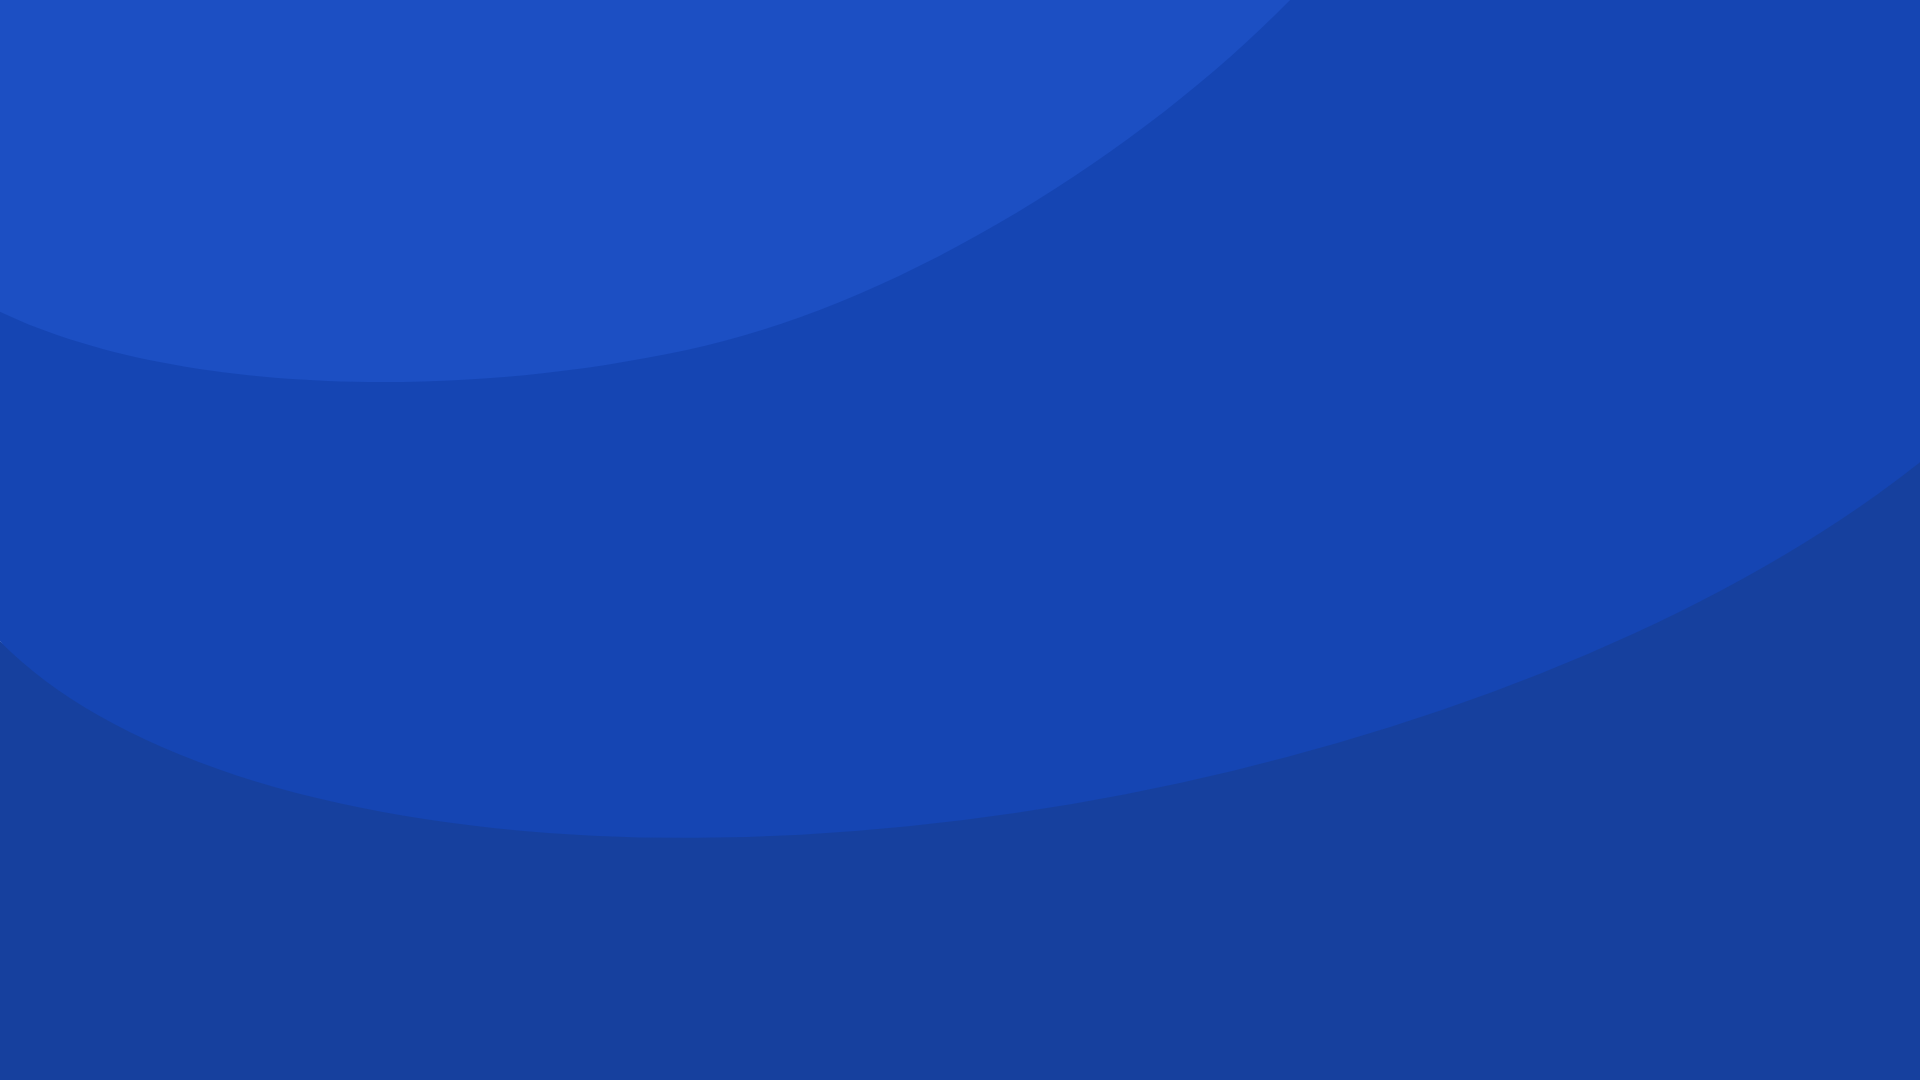
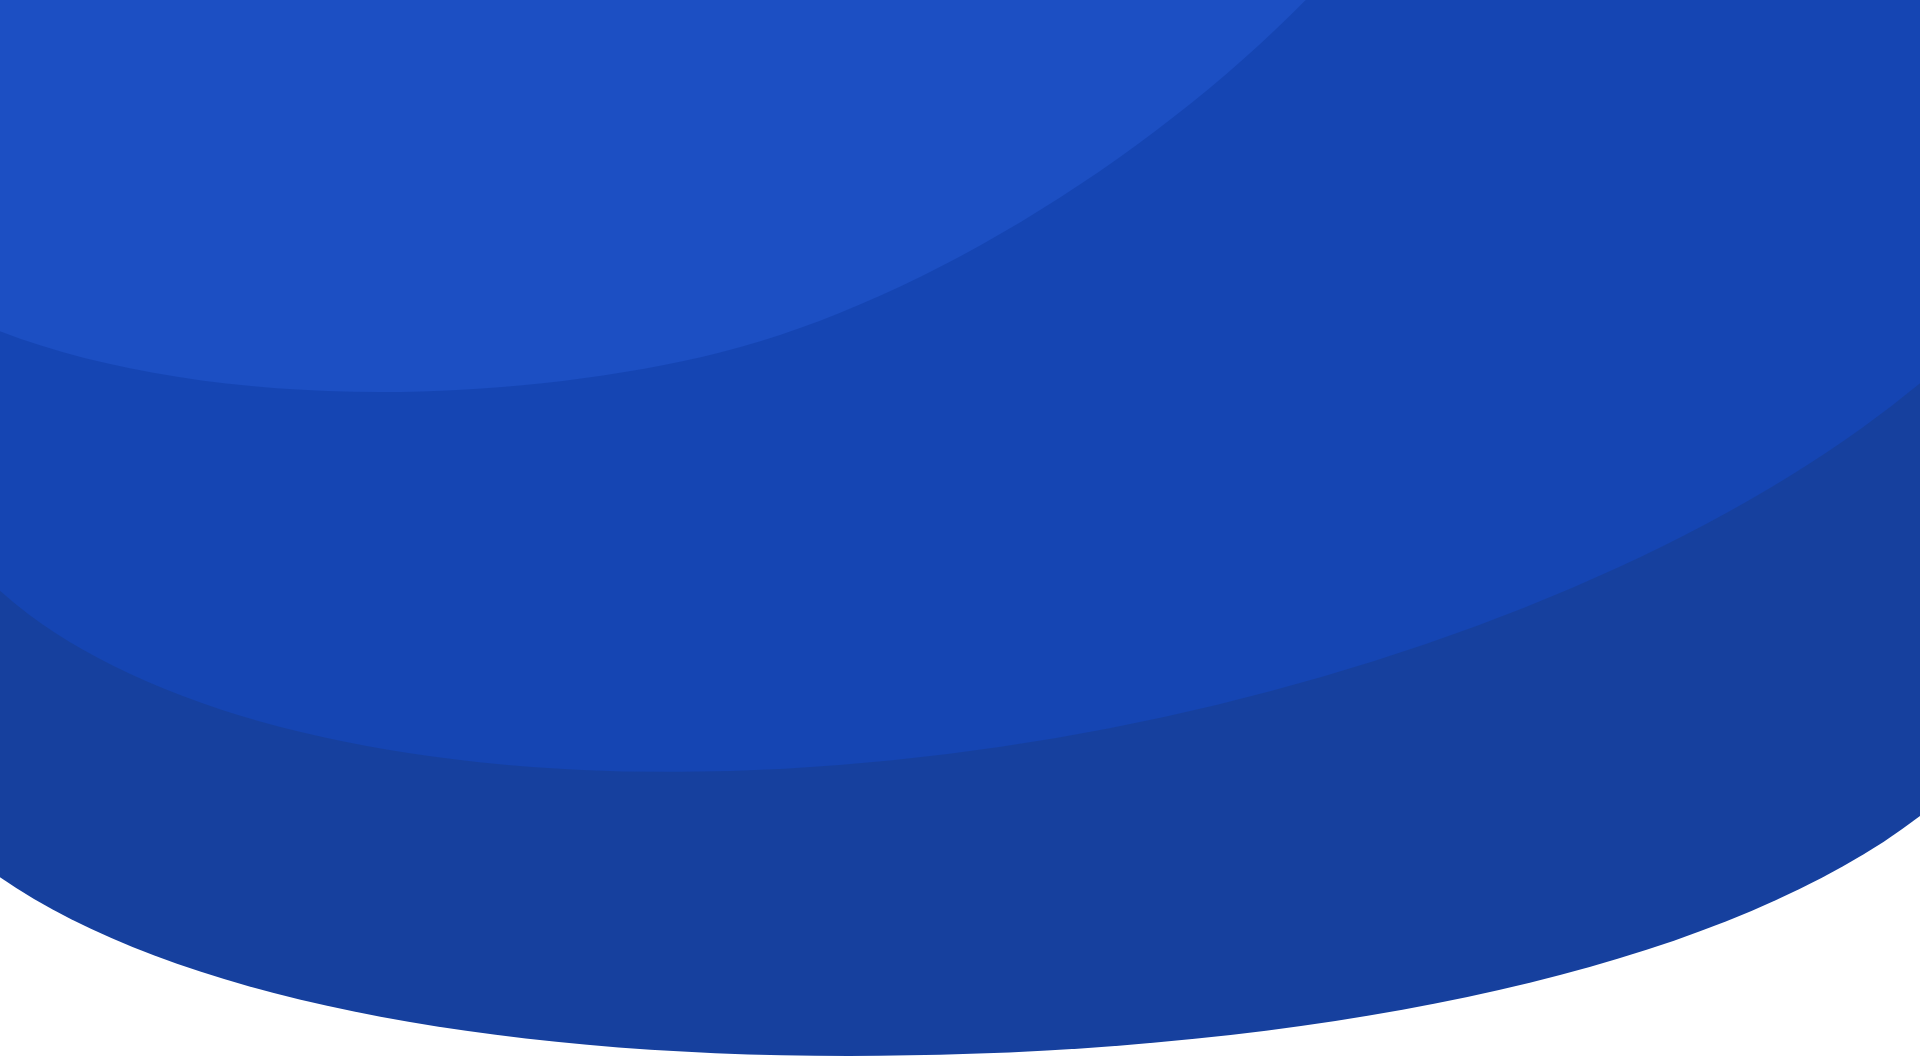
Fix border-radius bottom

Changed region(s): [[0.0, 0.779, 1.0, 1.0]]

diff --git a/components/css/headline.scss b/components/css/headline.scss
@@ -1,7 +1,6 @@
 .headline {
         .headline__background {
             width: 100vw;
-            height: 600px;
-            border-radius:  0 0 20% 20% / 10% 10%;
+            height: 550px;
         }
 }

diff --git a/components/css/headline.css b/components/css/headline.css
@@ -1,6 +1,5 @@
 .headline .headline__background {
   width: 100vw;
-  height: 600px;
-  border-radius: 0 0 20% 20% / 10% 10%;
+  height: 550px;
 }
 /*# sourceMappingURL=headline.css.map */
